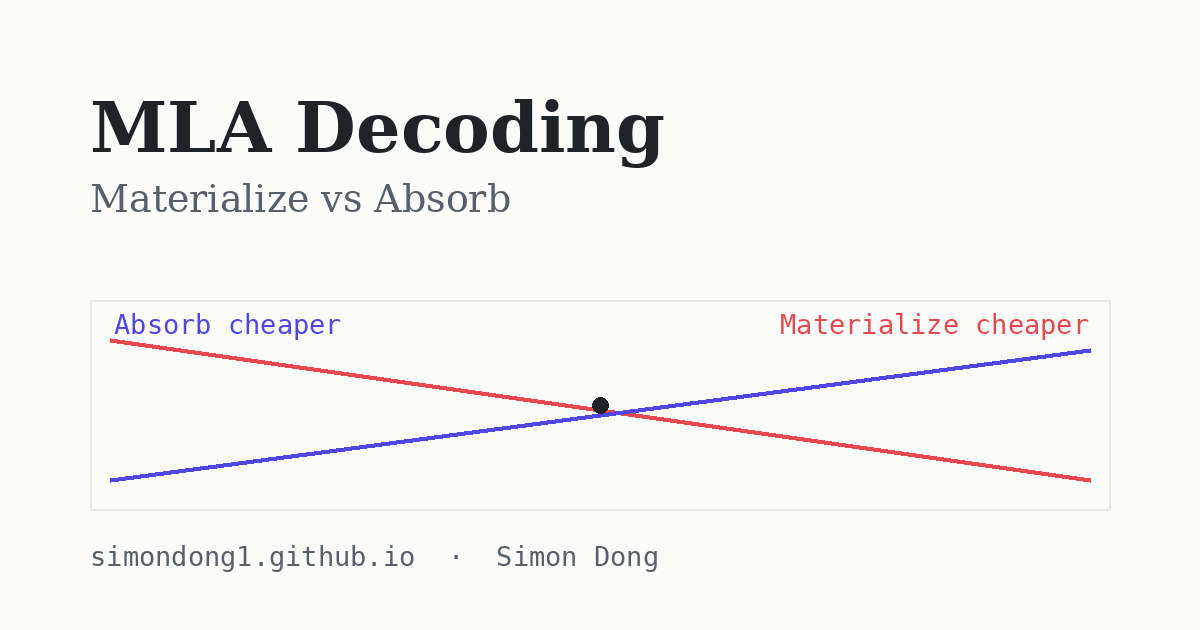
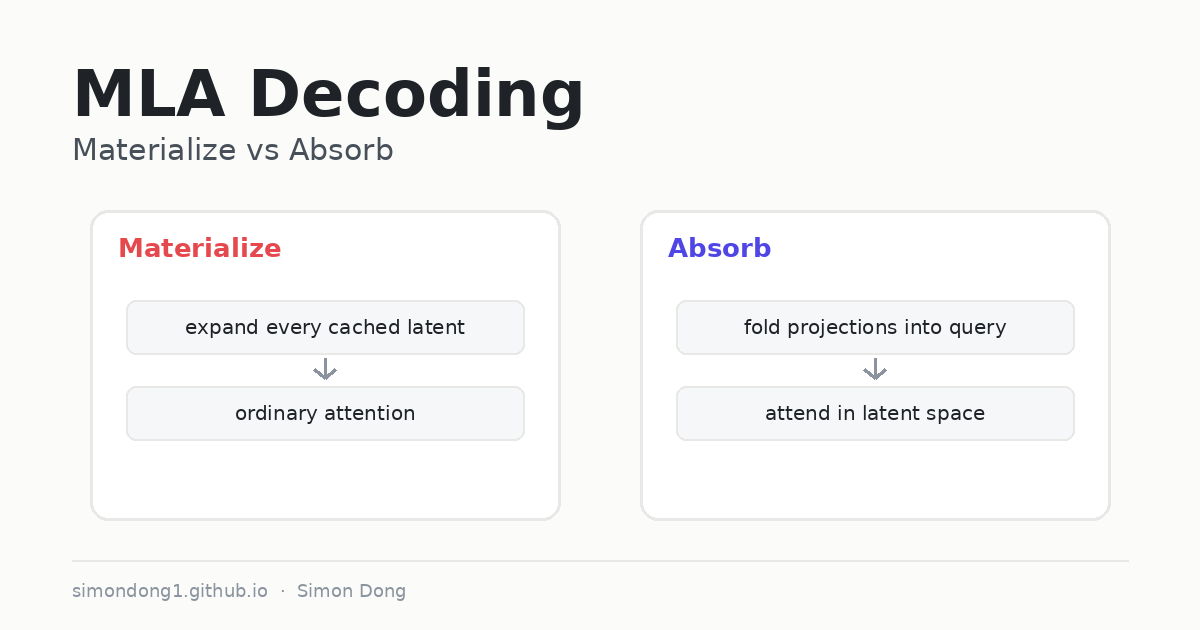
Refresh MLA posts for Kimi K2.5, GLM-5.2, and social previews.
Use the latest MLA model configs in the charts, regenerate simple no-number OG diagrams, and tighten Open Graph / Twitter / feed / homepage preview text.

diff --git a/mla-decoding.html b/mla-decoding.html
@@ -4,31 +4,37 @@
 <meta charset="utf-8" />
 <meta name="viewport" content="width=device-width, initial-scale=1" />
 <title>Understanding MLA Decoding (Materialize vs Absorb)</title>
-<meta name="description" content="Part 2 on Multi-head Latent Attention: the two ways to run MLA at inference (rebuild the cache vs fold the projections into the query), and the crossover that decides which one wins." />
+<meta name="description" content="Part 2 on Multi-head Latent Attention: materialize rebuilds every cached key/value; absorb folds the projections into the query. Interactive charts for DeepSeek-V3, Kimi K2.5, and GLM-5.2." />
 <meta name="robots" content="index, follow, max-image-preview:large, max-snippet:-1, max-video-preview:-1" />
 <link rel="canonical" href="https://simondong1.github.io/mla-decoding.html" />
 <link rel="alternate" type="application/rss+xml" title="Simon Dong Blog" href="https://simondong1.github.io/feed.xml" />
 <link rel="alternate" type="text/plain" title="llms.txt" href="https://simondong1.github.io/llms.txt" />
-<meta property="og:title" content="Understanding MLA Decoding" />
-<meta property="og:description" content="Two ways to run MLA at inference — rebuild the cache or fold the projections into the query — and the crossover between them." />
+<meta property="og:title" content="Understanding MLA Decoding — Materialize vs Absorb" />
+<meta property="og:description" content="Rebuild the cache, or fold projections into the query? Same math, two algorithms — and interactive charts for when each wins." />
 <meta property="og:type" content="article" />
 <meta property="og:url" content="https://simondong1.github.io/mla-decoding.html" />
 <meta property="og:site_name" content="Simon Dong" />
-<meta property="og:image" content="https://simondong1.github.io/assets/mla-decoding-og.png" />
+<meta property="og:locale" content="en_US" />
+<meta property="og:image" content="https://simondong1.github.io/assets/mla-decoding-og.png?v=2" />
+<meta property="og:image:secure_url" content="https://simondong1.github.io/assets/mla-decoding-og.png?v=2" />
+<meta property="og:image:type" content="image/png" />
 <meta property="og:image:width" content="1200" />
 <meta property="og:image:height" content="630" />
-<meta property="og:image:alt" content="MLA decoding: materialize vs absorb, and the crossover point." />
+<meta property="og:image:alt" content="Diagram: Materialize expands every cached latent; Absorb folds projections into the query." />
 <meta name="twitter:card" content="summary_large_image" />
-<meta name="twitter:title" content="Understanding MLA Decoding" />
-<meta name="twitter:description" content="Two ways to run MLA at inference and the crossover between them." />
-<meta name="twitter:image" content="https://simondong1.github.io/assets/mla-decoding-og.png" />
+<meta name="twitter:site" content="@dongsixiang" />
+<meta name="twitter:creator" content="@dongsixiang" />
+<meta name="twitter:title" content="Understanding MLA Decoding — Materialize vs Absorb" />
+<meta name="twitter:description" content="Rebuild the cache, or fold projections into the query? Same math, two algorithms — and when each wins." />
+<meta name="twitter:image" content="https://simondong1.github.io/assets/mla-decoding-og.png?v=2" />
+<meta name="twitter:image:alt" content="Diagram: Materialize expands every cached latent; Absorb folds projections into the query." />
 <meta name="author" content="Simon Dong" />
 <meta name="citation_title" content="Understanding MLA Decoding (Materialize vs Absorb)" />
 <meta name="citation_author" content="Dong, Simon" />
 <meta name="citation_publication_date" content="2026/07/07" />
 <meta name="citation_fulltext_html_url" content="https://simondong1.github.io/mla-decoding.html" />
 <script type="application/ld+json">
-{"@context":"https://schema.org","@type":"TechArticle","headline":"Understanding MLA Decoding (Materialize vs Absorb)","description":"The two ways to run Multi-head Latent Attention at inference, and the crossover that decides which one to use.","author":{"@type":"Person","name":"Simon Dong","url":"https://x.com/dongsixiang"},"datePublished":"2026-07-07","dateModified":"2026-07-09","mainEntityOfPage":"https://simondong1.github.io/mla-decoding.html","image":"https://simondong1.github.io/assets/mla-decoding-og.png"}
+{"@context":"https://schema.org","@type":"TechArticle","headline":"Understanding MLA Decoding (Materialize vs Absorb)","description":"Materialize rebuilds every cached key/value; absorb folds the projections into the query. Interactive charts for DeepSeek-V3, Kimi K2.5, and GLM-5.2.","author":{"@type":"Person","name":"Simon Dong","url":"https://x.com/dongsixiang","sameAs":["https://x.com/dongsixiang"]},"datePublished":"2026-07-07","dateModified":"2026-07-09","mainEntityOfPage":"https://simondong1.github.io/mla-decoding.html","image":["https://simondong1.github.io/assets/mla-decoding-og.png?v=2"],"keywords":["MLA","absorb","materialize","KV cache","DeepSeek-V3","Kimi K2.5","GLM-5.2","inference"]}
 </script>
 <link rel="preconnect" href="https://fonts.googleapis.com" />
 <link rel="preconnect" href="https://fonts.gstatic.com" crossorigin />
@@ -155,7 +161,7 @@
 </ol></nav>
 
 <div class="callout note"><span class="label">Widths used below</span>
-<p>Default walkthrough uses DeepSeek-V3: <code>heads = 128</code>, <code>latent_dim = 512</code>, <code>nope_dim = 128</code>, <code>rope_dim = 64</code>, <code>value_dim = 128</code>. The interactive charts also include <strong>Kimi K2</strong> (same MLA widths, 64 heads) and <strong>GLM-5</strong> (MLA-256: nope 192, value 256, still latent 512 + rope 64). <code>new_tokens</code> = queries in this call. <code>cached_tokens</code> = tokens already in the KV cache. Superscript <code>(h)</code> = head index. What those widths <em>mean</em> is named when the cache shows up in Section 2.</p>
+<p>Default walkthrough uses DeepSeek-V3: <code>heads = 128</code>, <code>latent_dim = 512</code>, <code>nope_dim = 128</code>, <code>rope_dim = 64</code>, <code>value_dim = 128</code>. The interactive charts also include <strong>Kimi K2.5</strong> (same MLA widths, 64 heads) and <strong>GLM-5.2</strong> (MLA-256: nope 192, value 256, still latent 512 + rope 64). <code>new_tokens</code> = queries in this call. <code>cached_tokens</code> = tokens already in the KV cache. Superscript <code>(h)</code> = head index. What those widths <em>mean</em> is named when the cache shows up in Section 2.</p>
 </div>
 
 <h2 id="s1"><span class="num">1.</span>Prefill and decode are the same computation</h2>
@@ -385,8 +391,8 @@ V =   RMSNorm(c)                           # (1,     512)        shared
     <label>model
       <select id="preset">
         <option value="dsv3">DeepSeek-V3 (heads 128, latent 512)</option>
-        <option value="kimi">Kimi K2 (heads 64, latent 512)</option>
-        <option value="glm5">GLM-5 (heads 64, latent 512, MLA-256)</option>
+        <option value="kimi25">Kimi K2.5 (heads 64, latent 512)</option>
+        <option value="glm52">GLM-5.2 (heads 64, latent 512, MLA-256)</option>
       </select>
     </label>
     <label>cached_tokens (context): <span id="ctxval" style="color:var(--accent)"></span>
@@ -409,7 +415,7 @@ V =   RMSNorm(c)                           # (1,     512)        shared
 <pre><code>crossover new_tokens  ≈   latent_dim × (nope_dim + value_dim)
                           ───────────────────────────────────
                           2 × latent_dim − nope_dim − value_dim</code></pre>
-<p>For DeepSeek-V3 that is about <strong>171 tokens</strong>; Kimi K2 lands in the same place (same latent / nope / value widths — only the head count changes, and it cancels in the ratio). GLM-5’s wider heads (nope 192, value 256) push the long-context limit to about <strong>228 tokens</strong>. At a realistic context of 4,096 the exact formula is a little lower — the live value for your current settings is in the box above. The takeaway: the boundary sits at a couple hundred query tokens, essentially independent of how long the context is.</p>
+<p>For DeepSeek-V3 that is about <strong>171 tokens</strong>; Kimi K2.5 lands in the same place (same latent / nope / value widths — only the head count changes, and it cancels in the ratio). GLM-5.2’s wider heads (nope 192, value 256) push the long-context limit to about <strong>228 tokens</strong>. At a realistic context of 4,096 the exact formula is a little lower — the live value for your current settings is in the box above. The takeaway: the boundary sits at a couple hundred query tokens, essentially independent of how long the context is.</p>
 
 <div class="callout note"><span class="label">What this model leaves out</span>
 <p>These are arithmetic counts, not wall-clock. Real kernels care about memory traffic, FlashAttention tiling, and whether the rebuild can be fused. The crossover can shift, but the qualitative picture — Absorb at decode, Materialize at large prefill — is what serving engines actually ship.</p>
@@ -422,8 +428,8 @@ V =   RMSNorm(c)                           # (1,     512)        shared
     <label>model
       <select id="cachePreset">
         <option value="dsv3">DeepSeek-V3 (heads 128, latent 512)</option>
-        <option value="kimi">Kimi K2 (heads 64, latent 512)</option>
-        <option value="glm5">GLM-5 (heads 64, latent 512, MLA-256)</option>
+        <option value="kimi25">Kimi K2.5 (heads 64, latent 512)</option>
+        <option value="glm52">GLM-5.2 (heads 64, latent 512, MLA-256)</option>
       </select>
     </label>
   </div>
@@ -434,7 +440,7 @@ V =   RMSNorm(c)                           # (1,     512)        shared
   <div class="chart-box bar"><canvas id="cacheChart"></canvas></div>
   <div class="readout" id="cacheReadout"></div>
 </div>
-<p>DeepSeek-V3 and Kimi K2 both store <strong>576</strong> values per token per layer (<code>512 + 64</code>); the full-cache side differs because Kimi has half as many heads (<strong>20,480</strong> vs <strong>40,960</strong>). GLM-5 keeps the same 576-wide MLA entry but a wider full head (<code>256 + 256</code>), so the full cache is <strong>32,768</strong> — still about <strong>57×</strong> larger. Pick a model above to see the exact numbers.</p>
+<p>DeepSeek-V3 and Kimi K2.5 both store <strong>576</strong> values per token per layer (<code>512 + 64</code>); the full-cache side differs because Kimi has half as many heads (<strong>20,480</strong> vs <strong>40,960</strong>). GLM-5.2 keeps the same 576-wide MLA entry but a wider full head (<code>256 + 256</code>), so the full cache is <strong>32,768</strong> — still about <strong>57×</strong> larger. Pick a model above to see the exact numbers.</p>
 <p>Absorb is what makes that small cache usable at decode: you never expand every past token into full K_nope / V just to attend. Materialize can still expand the <em>latent</em> when there are enough new queries — but K_rope is never expanded either way, and the <em>stored</em> cache stays <code>[latent | K_rope]</code>. (The Hugging Face reference path is different: it caches the expanded tensors. Serving engines keep the latent + rope.)</p>
 
 <h2 id="s8"><span class="num">8.</span>Which algorithm runs when</h2>
@@ -466,9 +472,9 @@ https://simondong1.github.io/mla-decoding.html</code></pre>
 <script>
 (function(){
   var PRESETS = {
-    dsv3: {heads:128, nope:128, rope:64, value:128, latent:512, label:"DeepSeek-V3"},
-    kimi: {heads:64,  nope:128, rope:64, value:128, latent:512, label:"Kimi K2"},
-    glm5: {heads:64,  nope:192, rope:64, value:256, latent:512, label:"GLM-5"}
+    dsv3:   {heads:128, nope:128, rope:64, value:128, latent:512, label:"DeepSeek-V3"},
+    kimi25: {heads:64,  nope:128, rope:64, value:128, latent:512, label:"Kimi K2.5"},
+    glm52:  {heads:64,  nope:192, rope:64, value:256, latent:512, label:"GLM-5.2"}
   };
   var accent = "#4f46e5", warm = "#e5484d";
   var costChart = null, cacheChart = null;

diff --git a/mla.html b/mla.html
@@ -4,31 +4,37 @@
 <meta charset="utf-8" />
 <meta name="viewport" content="width=device-width, initial-scale=1" />
 <title>Understanding MLA (Multi-head Latent Attention)</title>
-<meta name="description" content="A visual tutorial on Multi-head Latent Attention: how DeepSeek-style MLA relates to MHA and MQA, what is actually compressed, why the head splits into nope and rope, and why position cannot live in the latent." />
+<meta name="description" content="A visual tutorial on Multi-head Latent Attention: one shared latent replaces full K/V, position stays as a tiny rope key, and why that split exists. Used in DeepSeek-V3, Kimi K2.5, and GLM-5.2." />
 <meta name="robots" content="index, follow, max-image-preview:large, max-snippet:-1, max-video-preview:-1" />
 <link rel="canonical" href="https://simondong1.github.io/mla.html" />
 <link rel="alternate" type="application/rss+xml" title="Simon Dong Blog" href="https://simondong1.github.io/feed.xml" />
 <link rel="alternate" type="text/plain" title="llms.txt" href="https://simondong1.github.io/llms.txt" />
 <meta property="og:title" content="Understanding MLA (Multi-head Latent Attention)" />
-<meta property="og:description" content="How DeepSeek-style MLA compresses the KV cache, and why the head splits into nope and rope." />
+<meta property="og:description" content="One shared latent replaces full K/V. Position rides beside it as a tiny rope key. A visual walk through DeepSeek-style MLA." />
 <meta property="og:type" content="article" />
 <meta property="og:url" content="https://simondong1.github.io/mla.html" />
 <meta property="og:site_name" content="Simon Dong" />
-<meta property="og:image" content="https://simondong1.github.io/assets/mla-og.png" />
+<meta property="og:locale" content="en_US" />
+<meta property="og:image" content="https://simondong1.github.io/assets/mla-og.png?v=2" />
+<meta property="og:image:secure_url" content="https://simondong1.github.io/assets/mla-og.png?v=2" />
+<meta property="og:image:type" content="image/png" />
 <meta property="og:image:width" content="1200" />
 <meta property="og:image:height" content="630" />
-<meta property="og:image:alt" content="Understanding MLA: full K,V cache becomes one latent plus a shared rope key." />
+<meta property="og:image:alt" content="Diagram: full multi-head KV cache becomes one shared latent plus a shared rope key." />
 <meta name="twitter:card" content="summary_large_image" />
+<meta name="twitter:site" content="@dongsixiang" />
+<meta name="twitter:creator" content="@dongsixiang" />
 <meta name="twitter:title" content="Understanding MLA (Multi-head Latent Attention)" />
-<meta name="twitter:description" content="How DeepSeek-style MLA compresses the KV cache, and why the head splits into nope and rope." />
-<meta name="twitter:image" content="https://simondong1.github.io/assets/mla-og.png" />
+<meta name="twitter:description" content="One shared latent replaces full K/V. Position rides beside it as a tiny rope key." />
+<meta name="twitter:image" content="https://simondong1.github.io/assets/mla-og.png?v=2" />
+<meta name="twitter:image:alt" content="Diagram: full multi-head KV cache becomes one shared latent plus a shared rope key." />
 <meta name="author" content="Simon Dong" />
 <meta name="citation_title" content="Understanding MLA (Multi-head Latent Attention)" />
 <meta name="citation_author" content="Dong, Simon" />
 <meta name="citation_publication_date" content="2026/07/01" />
 <meta name="citation_fulltext_html_url" content="https://simondong1.github.io/mla.html" />
 <script type="application/ld+json">
-{"@context":"https://schema.org","@type":"TechArticle","headline":"Understanding MLA (Multi-head Latent Attention)","description":"A visual tutorial on Multi-head Latent Attention: how DeepSeek-style MLA compresses the KV cache, and why the head splits into nope and rope.","author":{"@type":"Person","name":"Simon Dong","url":"https://x.com/dongsixiang"},"datePublished":"2026-07-01","dateModified":"2026-07-09","mainEntityOfPage":"https://simondong1.github.io/mla.html","image":"https://simondong1.github.io/assets/mla-og.png"}
+{"@context":"https://schema.org","@type":"TechArticle","headline":"Understanding MLA (Multi-head Latent Attention)","description":"A visual tutorial on Multi-head Latent Attention: one shared latent replaces full K/V, position stays as a tiny rope key. Used in DeepSeek-V3, Kimi K2.5, and GLM-5.2.","author":{"@type":"Person","name":"Simon Dong","url":"https://x.com/dongsixiang","sameAs":["https://x.com/dongsixiang"]},"datePublished":"2026-07-01","dateModified":"2026-07-09","mainEntityOfPage":"https://simondong1.github.io/mla.html","image":["https://simondong1.github.io/assets/mla-og.png?v=2"],"keywords":["MLA","Multi-head Latent Attention","KV cache","DeepSeek","Kimi K2.5","GLM-5.2","RoPE"]}
 </script>
 <link rel="preconnect" href="https://fonts.googleapis.com" />
 <link rel="preconnect" href="https://fonts.gstatic.com" crossorigin />
@@ -132,7 +138,7 @@
 <main class="wrap">
 <p class="lede"><strong>MLA is a low-rank version of multi-head attention.</strong> It keeps every query head, but stores keys and values as one shared latent per token — like Multi-Query Attention's tiny cache, yet each head still gets its own learned view. This post is the architecture; a <a href="mla-decoding.html">follow-up</a> covers the two ways to run it at inference.</p>
 
-<div class="callout note"><span class="label">Where MLA is used</span><p>MLA is the attention behind <strong>DeepSeek-V2 / V3</strong>, the <strong>Kimi K2.x</strong> text backbone, and <strong>GLM-5</strong> (MLA-256). Every walkthrough number here uses DeepSeek-V3; the <a href="mla-decoding.html">decode post</a> lets you switch models in the charts.</p></div>
+<div class="callout note"><span class="label">Where MLA is used</span><p>MLA is the attention behind <strong>DeepSeek-V2 / V3</strong>, <strong>Kimi K2.5</strong>, and <strong>GLM-5.2</strong> (MLA-256). Every walkthrough number here uses DeepSeek-V3; the <a href="mla-decoding.html">decode post</a> lets you switch models in the charts.</p></div>
 
 <div class="callout note"><span class="label">Assumed background</span><p>Multi-head attention (Q, K, V, one cache per head) and RoPE. If RoPE is rusty, the <a href="rope.html">RoPE post</a> covers it. Everything else is defined here.</p></div>
 

diff --git a/index.html b/index.html
@@ -119,12 +119,12 @@
     <a class="post" href="https://simondong1.github.io/mla-decoding.html">
       <p class="meta">July 2026 · Attention Variants · MLA Part 2</p>
       <h2>Understanding MLA Decoding (Materialize vs Absorb)</h2>
-      <p>The two ways to run MLA at inference — rebuild the cache or fold the projections into the query — with interactive charts for the crossover between them.</p>
+      <p>Rebuild every cached key/value, or fold the projections into the query? Same math, two algorithms — with interactive charts for DeepSeek-V3, Kimi K2.5, and GLM-5.2.</p>
     </a>
     <a class="post" href="https://simondong1.github.io/mla.html">
-      <p class="meta">July 2026 · Attention Variants · MLA</p>
+      <p class="meta">July 2026 · Attention Variants · MLA Part 1</p>
       <h2>Understanding MLA (Multi-head Latent Attention)</h2>
-      <p>How DeepSeek-style MLA stores one latent KV state, splits nope from rope, and why training code looks different from optimized decode.</p>
+      <p>One shared latent replaces full K/V; position rides beside it as a tiny rope key. A visual walk through the architecture behind DeepSeek-V3, Kimi K2.5, and GLM-5.2.</p>
     </a>
     <a class="post" href="https://simondong1.github.io/gqa.html">
       <p class="meta">June 2026 · Attention Variants · Part 1</p>